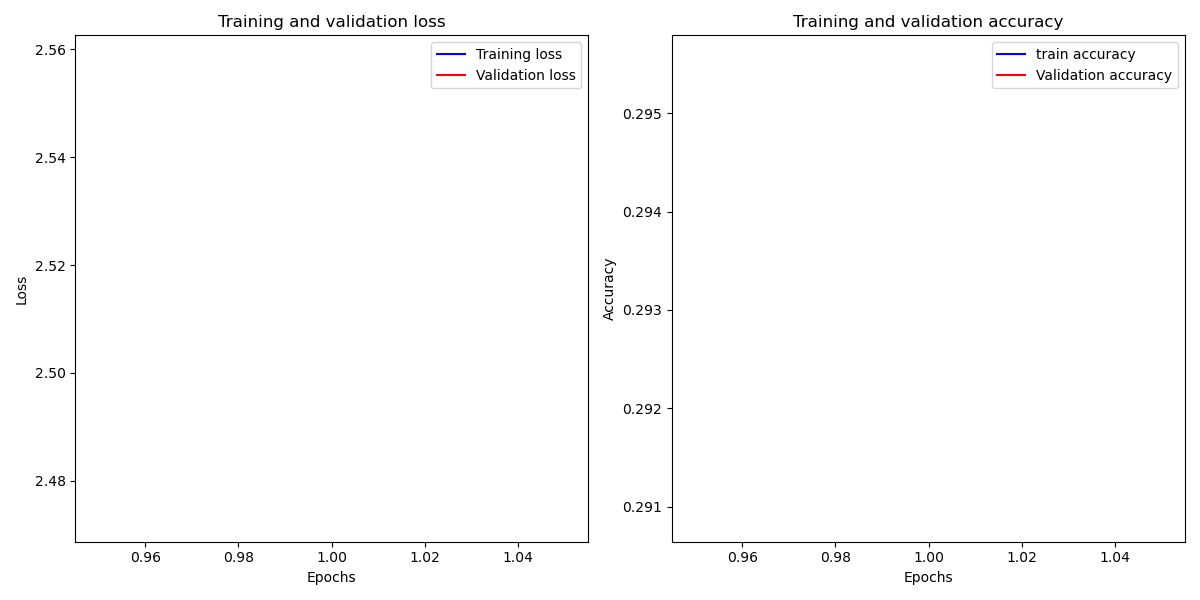
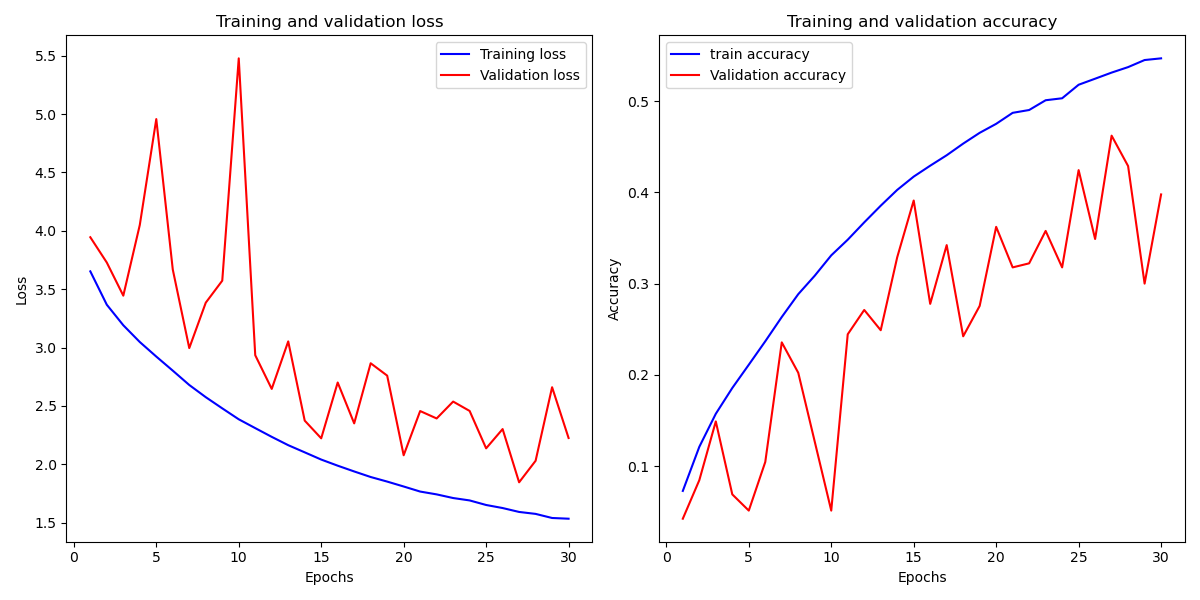
task2 resnet34 without pretrain-weight

diff --git a/train.py b/train.py
@@ -49,7 +49,7 @@ def validate_model(model, val_loader, criterion, device):
 def build_model_and_optimizer(target_channel, num_classes, device, model_type):
     if model_type == "resnet34":
         if target_channel == "RGB":
-            model = resnet34(weights='IMAGENET1K_V1')  # Use updated argument for weights
+            model = resnet34(weights=False)  # Use updated argument for weights
             model.fc = nn.Linear(model.fc.in_features, num_classes)
         else:
             model = resnet34(weights='IMAGENET1K_V1')

diff --git a/shang_main.py b/shang_main.py
@@ -17,7 +17,7 @@ if __name__=="__main__":
     batch_size=128
     num_workers=16
     num_classes=50
-    num_epochs=1
+    num_epochs=30
 
     logger.info(f'Batch size: {batch_size}')
     logger.info(f'num workers: {num_workers}')
